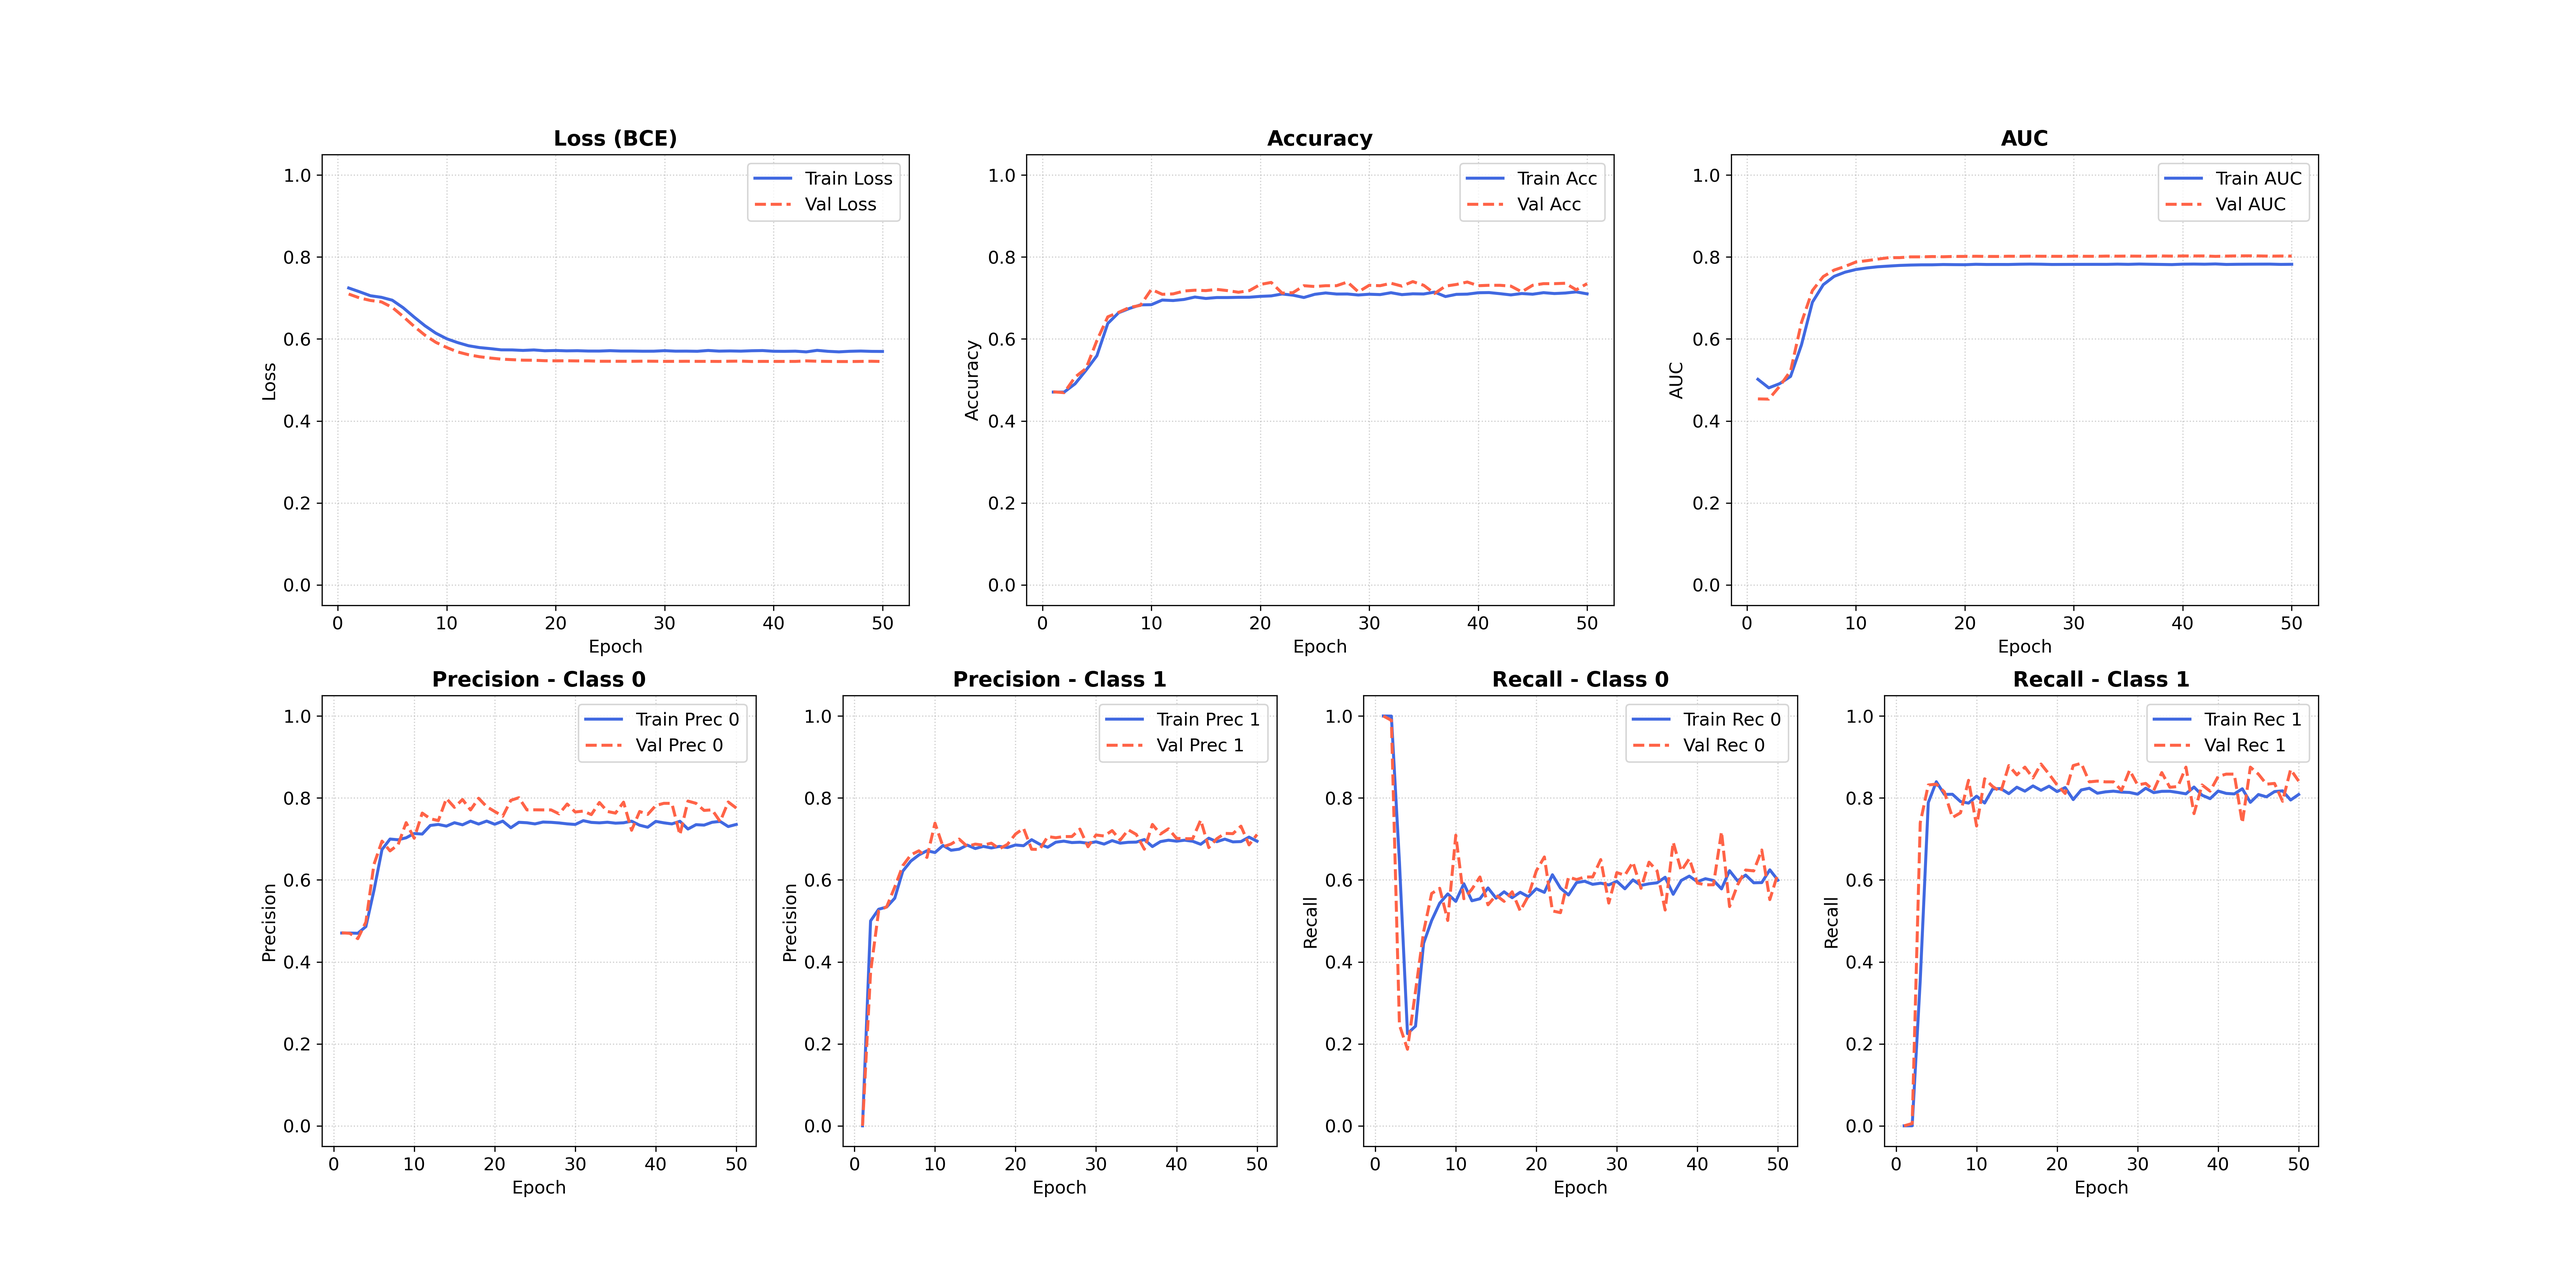
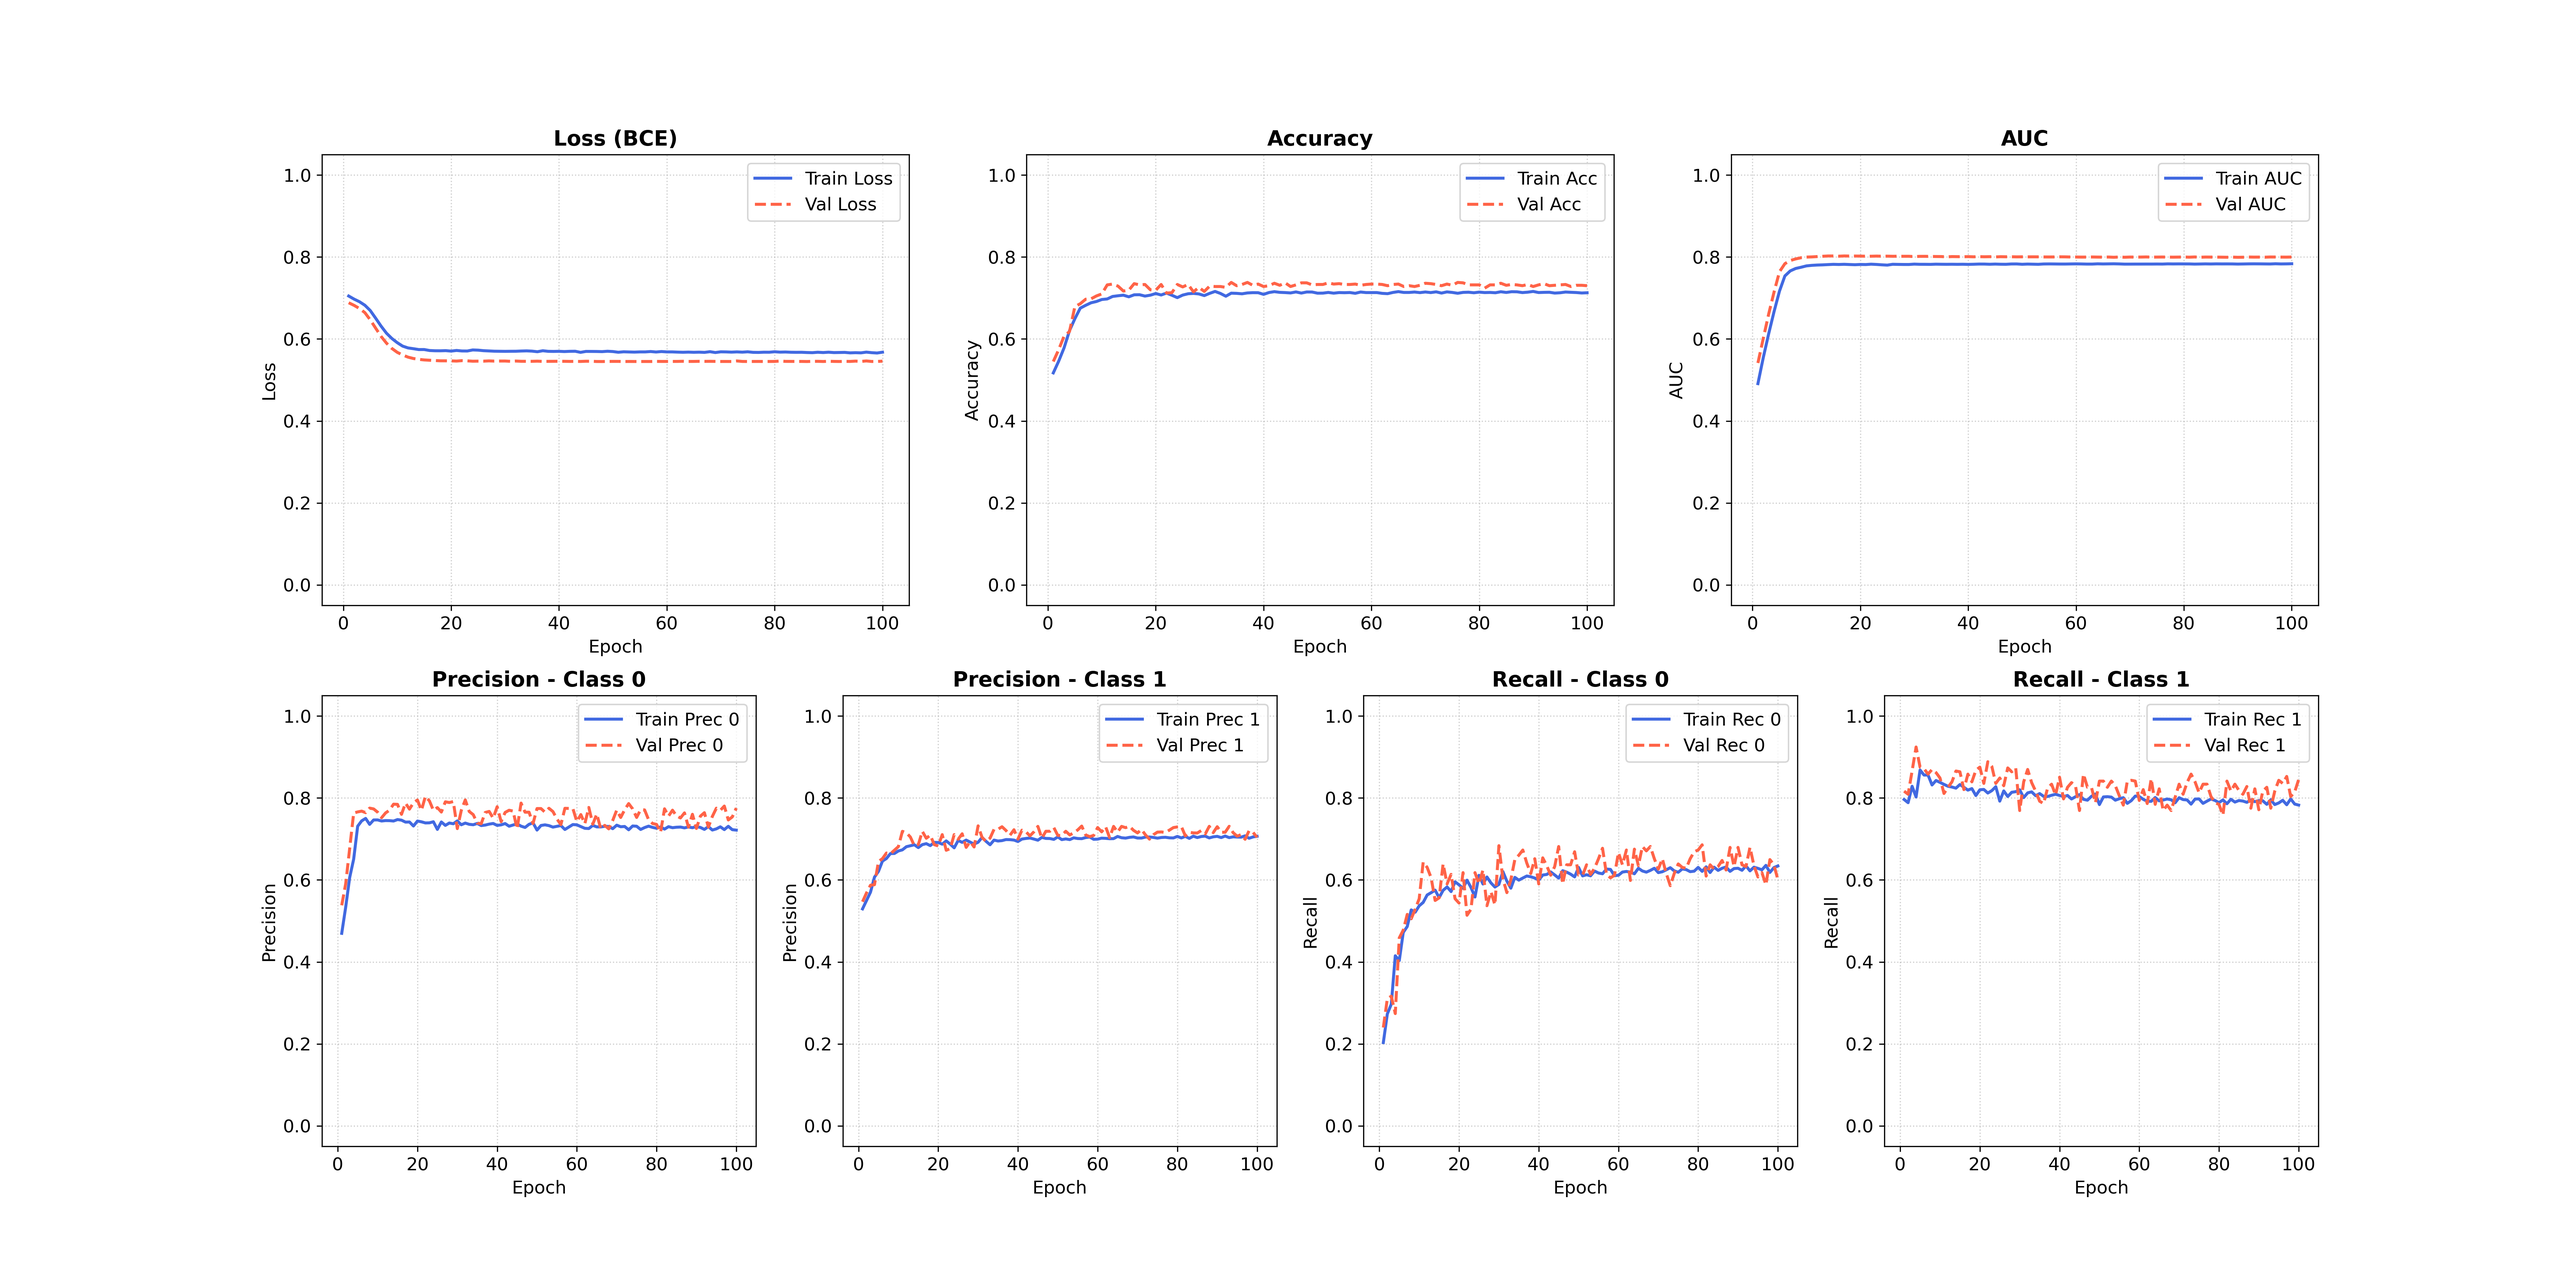
modify re-ranking_mlp

diff --git a/src/models/re-ranking_mlp.py b/src/models/re-ranking_mlp.py
@@ -7,9 +7,6 @@ from sklearn.model_selection import train_test_split
 from sklearn.metrics import roc_auc_score, accuracy_score, precision_recall_fscore_support, roc_curve
 import os
 
-# -----------------------------------------------------------------------------
-# [Step 0] 설정: 경로 및 파라미터
-# -----------------------------------------------------------------------------
 # 파일 경로 설정 (상대 경로 사용)
 SCRIPT_DIR = os.path.dirname(os.path.abspath(__file__))
 DATA_DIR = os.path.join(SCRIPT_DIR, "../../data")
@@ -22,14 +19,12 @@ LOG_PATH = os.path.join(OUTPUT_DIR, "logs", "re-ranking_mlp.csv")
 # 하이퍼파라미터
 BATCH_SIZE = 128
 LEARNING_RATE = 0.001
-EPOCHS = 50
+EPOCHS = 100
 VAL_RATIO = 0.1
-THRESHOLD = 0.5  # 필요하다면 최적값으로 변경하세요
+THRESHOLD = 0.5
 
-# -----------------------------------------------------------------------------
-# [Step 1] 데이터 로드 및 전처리
-# -----------------------------------------------------------------------------
-print(">>> 데이터 로딩 중...")
+# 1. 데이터 load & 전처리
+print("\n1. 데이터 load & 전처리")
 if not os.path.exists(INPUT_PATH):
     print(f"파일이 존재하지 않습니다: {INPUT_PATH}")
     exit()
@@ -37,11 +32,13 @@ if not os.path.exists(INPUT_PATH):
 data = np.load(INPUT_PATH)
 dataset = data['data'] 
 
-# Feature(X)와 Label(y) 분리
 X_numpy = dataset[:, :-1].astype(np.float32)
 y_numpy = dataset[:, -1].astype(np.float32).reshape(-1, 1)
+print(f"  - Feature Shape: {X_numpy.shape}")     # (10000, 16)
+print(f"  - Label Shape: {y_numpy.shape}")       # (10000, 1)
 
-# Train / Validation Split
+# 2. train & val split
+print("\n2. train & val split")
 X_train, X_val, y_train, y_val = train_test_split(
     X_numpy, y_numpy, test_size=VAL_RATIO, random_state=42, stratify=y_numpy
 )
@@ -50,12 +47,11 @@ X_train_tensor = torch.tensor(X_train)
 y_train_tensor = torch.tensor(y_train)
 X_val_tensor = torch.tensor(X_val)
 y_val_tensor = torch.tensor(y_val)
+print(f"  - Train Samples: {len(X_train_tensor)}")
+print(f"  - Val Samples: {len(X_val_tensor)}")
 
-print(f"Train Set: {X_train.shape}, Val Set: {X_val.shape}")
-
-# -----------------------------------------------------------------------------
-# [Step 2] 모델 정의
-# -----------------------------------------------------------------------------
+# 3. MLP model 설계
+print("\n3. MLP model 설계")
 class SimpleMLP(nn.Module):
     def __init__(self):
         super(SimpleMLP, self).__init__()
@@ -69,16 +65,17 @@ class SimpleMLP(nn.Module):
     def forward(self, x):
         return self.network(x)
 
+# 모델 초기화
 model = SimpleMLP()
 criterion = nn.BCELoss()
 optimizer = optim.Adam(model.parameters(), lr=LEARNING_RATE)
+print(model)
 
-# -----------------------------------------------------------------------------
-# [Step 3] 학습 Loop 및 로그 기록
-# -----------------------------------------------------------------------------
+# 4. main
+print(f"\n4. main 학습 시작 (Total Epochs: {EPOCHS}, Threshold: {THRESHOLD})")
 history = [] 
-
-print(f">>> 학습 시작 (Total Epochs: {EPOCHS}, Threshold: {THRESHOLD})")
+best_val_acc = 0.0
+best_epoch_info = None
 
 for epoch in range(1, EPOCHS + 1):
     # --- [Training Phase] ---
@@ -104,62 +101,59 @@ for epoch in range(1, EPOCHS + 1):
         train_probs_list.append(outputs.detach().cpu().numpy())
         train_labels_list.append(batch_y.detach().cpu().numpy())
 
-    # Train Metrics
+    # train summary
     train_probs_concat = np.concatenate(train_probs_list)
     train_labels_concat = np.concatenate(train_labels_list)
-    avg_train_loss = epoch_loss / (len(X_train_tensor) // BATCH_SIZE)
+    avg_t_loss = epoch_loss / (len(X_train_tensor) // BATCH_SIZE)
     
-    train_auc = roc_auc_score(train_labels_concat, train_probs_concat)
+    t_auc = roc_auc_score(train_labels_concat, train_probs_concat)
     train_preds = (train_probs_concat >= THRESHOLD).astype(int)
-    train_acc = accuracy_score(train_labels_concat, train_preds)
+    t_acc = accuracy_score(train_labels_concat, train_preds)
     
-    # Train Precision & Recall (Class 0, 1 각각)
-    tr_prec, tr_rec, _, _ = precision_recall_fscore_support(
+    t_prec, t_rec, _, _ = precision_recall_fscore_support(
         train_labels_concat, train_preds, average=None, zero_division=0
     )
 
-    # --- [Validation Phase] ---
+    # validation
     model.eval()
     with torch.no_grad():
         val_outputs = model(X_val_tensor)
-        val_loss = criterion(val_outputs, y_val_tensor).item()
+        v_loss = criterion(val_outputs, y_val_tensor).item()
         
         val_probs = val_outputs.cpu().numpy()
         val_labels = y_val_tensor.cpu().numpy()
         
-        val_auc = roc_auc_score(val_labels, val_probs)
+        v_auc = roc_auc_score(val_labels, val_probs)
         val_preds = (val_probs >= THRESHOLD).astype(int)
-        val_acc = accuracy_score(val_labels, val_preds)
+        v_acc = accuracy_score(val_labels, val_preds)
 
-        # Validation Precision & Recall (Class 0, 1 각각)
-        val_prec, val_rec, _, _ = precision_recall_fscore_support(
+        v_prec, v_rec, _, _ = precision_recall_fscore_support(
             val_labels, val_preds, average=None, zero_division=0
         )
 
-    # --- [Logging] ---
+    # Log
     log_entry = {
         "epoch": epoch,
-        "train_loss": avg_train_loss,
-        "val_loss": val_loss,
-        "train_acc": train_acc,
-        "val_acc": val_acc,
-        "train_auc": train_auc,
-        "val_auc": val_auc,
-        "train_prec0": tr_prec[0],
-        "val_prec0": val_prec[0],
-        "train_prec1": tr_prec[1],
-        "val_prec1": val_prec[1],
-        "train_rec0": tr_rec[0],
-        "val_rec0": val_rec[0],
-        "train_rec1": tr_rec[1],
-        "val_rec1": val_rec[1],
+        "train_loss": avg_t_loss, "val_loss": v_loss,
+        "train_acc": t_acc, "val_acc": v_acc,
+        "train_auc": t_auc, "val_auc": v_auc,
+        "train_prec0": t_prec[0], "val_prec0": v_prec[0],
+        "train_prec1": t_prec[1], "val_prec1": v_prec[1],
+        "train_rec0": t_rec[0], "val_rec0": v_rec[0],
+        "train_rec1": t_rec[1], "val_rec1": v_rec[1],
     }
     history.append(log_entry)
 
-    if epoch % 5 == 0:
-        print(f"Epoch [{epoch}/{EPOCHS}] Loss: {avg_train_loss:.4f} | "
-              f"Val Acc: {val_acc:.4f} | "
-              f"Val P1: {val_prec[1]:.4f} R1: {val_rec[1]:.4f}")
+    # Best Model Check (val loss 기준)
+    if v_loss > 0:
+        if best_epoch_info is None or v_loss < best_epoch_info['val_loss']:
+            best_val_acc = v_acc
+            best_epoch_info = log_entry
+    
+    # Console Log
+    print(f"Epoch [{epoch}/{EPOCHS}] "
+            f"Loss:{avg_t_loss:.4f} | Acc:{t_acc:.4f}/{v_acc:.4f} | AUC:{v_auc:.4f} | "
+            f"R0:{v_rec[0]:.4f} R1:{v_rec[1]:.4f}")
 
 # -----------------------------------------------------------------------------
 # [Step 4] 로그 파일 저장
